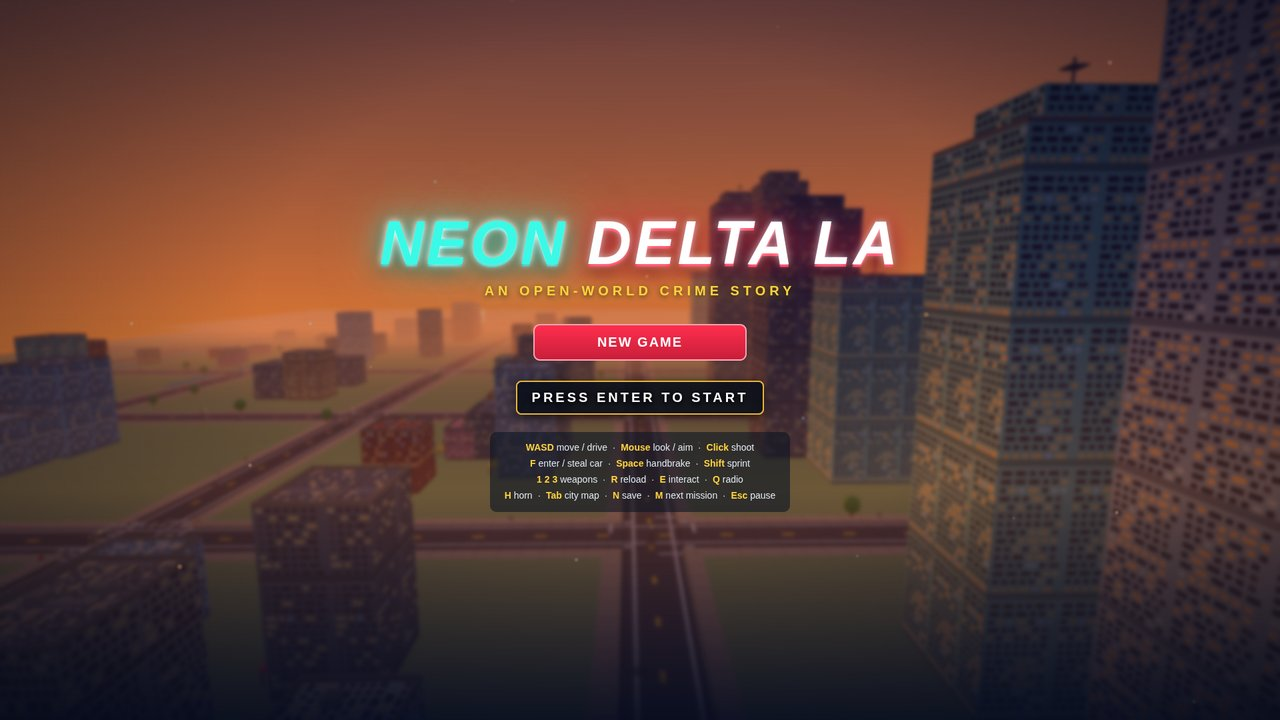
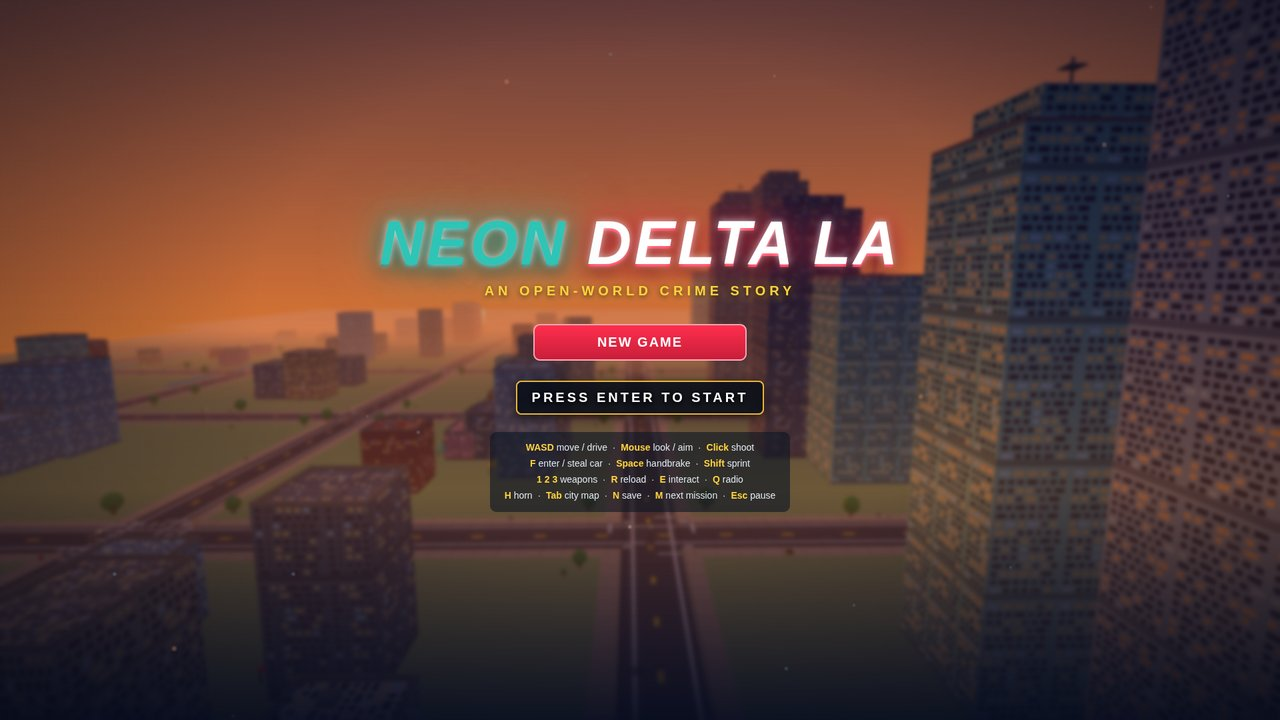
v10: prop density — street clutter, pier, port, shops, parked cars

diff --git a/game/src/world.js b/game/src/world.js
@@ -214,14 +214,45 @@ export function buildWorld(scene) {
   // Civic Center (gray + tower) beside the freeway.
   addBuilding(560, -480, 52, 24, 38, 'gray');
   addBuilding(560, -520, 18, 62, 18, 'gray', { antenna: true });
+  // v10: water towers on three landmark roofs (the towers already carry
+  // antennas) — hospital slab, city-hall base, civic-center base.
+  plainItems.push(cylItem(2.2, 2.2, 4, 220, 26 + 2.4, -490, 0xa8875a, 10));
+  plainItems.push({ geo: new THREE.ConeGeometry(2.4, 2, 10), matrix: new THREE.Matrix4().makeTranslation(220, 26 + 5.4, -490), color: 0x8f6f42 });
+  for (const [lx, lz] of [[218.5, -491.5], [221.5, -491.5], [218.5, -488.5], [221.5, -488.5]]) {
+    plainItems.push(cylItem(0.18, 0.18, 2.4, lx, 26 + 1.2, lz, 0x555555, 6));
+  }
+  plainItems.push(cylItem(2.2, 2.2, 4, -155, 18 + 2.4, -490, 0xa8875a, 10));
+  plainItems.push({ geo: new THREE.ConeGeometry(2.4, 2, 10), matrix: new THREE.Matrix4().makeTranslation(-155, 18 + 5.4, -490), color: 0x8f6f42 });
+  for (const [lx, lz] of [[-156.5, -491.5], [-153.5, -491.5], [-156.5, -488.5], [-153.5, -488.5]]) {
+    plainItems.push(cylItem(0.18, 0.18, 2.4, lx, 18 + 1.2, lz, 0x555555, 6));
+  }
+  plainItems.push(cylItem(2.2, 2.2, 4, 580, 24 + 2.4, -470, 0xa8875a, 10));
+  plainItems.push({ geo: new THREE.ConeGeometry(2.4, 2, 10), matrix: new THREE.Matrix4().makeTranslation(580, 24 + 5.4, -470), color: 0x8f6f42 });
+  for (const [lx, lz] of [[578.5, -471.5], [581.5, -471.5], [578.5, -468.5], [581.5, -468.5]]) {
+    plainItems.push(cylItem(0.18, 0.18, 2.4, lx, 24 + 1.2, lz, 0x555555, 6));
+  }
   // Shophouses: bright colors, ground-floor stores with awnings + signs.
   const shopColors = ['pink', 'teal', 'tan', 'blue', 'white', 'pink'];
   const shopNames = ['CORAL TACOS', 'NEON DONUTS', 'PIER GIFTS', 'SUNSET CAFE', 'VINYL & CO', 'TIDE BOOKS'];
   const shopSigns = [];
   shopColors.forEach((m, i) => {
     const x = -80 + i * 34;
-    addBuilding(x, 100, 26, range(rng, 12, 18), 16, m, { canopy: true, canopyColor: pick(rng, [0xff2e4d, 0xffc53d, 0x2ec4b6]) });
+    const cc = pick(rng, [0xff2e4d, 0xffc53d, 0x2ec4b6]);
+    addBuilding(x, 100, 26, range(rng, 12, 18), 16, m, { canopy: true, canopyColor: cc });
     shopSigns.push({ x, z: 100, text: shopNames[i] });
+    // v10 shopfront detail: flower window box + striped awning valance +
+    // a display shelf with colorful goods on the street face.
+    plainItems.push(boxItem(2.2, 0.4, 0.5, x, 2.6, 108.5, 0x8a6a42));
+    for (let f = 0; f < 3; f++) {
+      plainItems.push({ geo: new THREE.SphereGeometry(0.25, 8, 6), matrix: new THREE.Matrix4().makeTranslation(x - 0.7 + f * 0.7, 2.95, 108.5), color: [0xff2e4d, 0xffc53d, 0x2ec4b6][f] });
+    }
+    for (let s = 0; s < 5; s++) {
+      plainItems.push(boxItem(1.1, 0.4, 0.2, x - 2.2 + s * 1.1, 3.9, 108.2, s % 2 ? 0xf4f4f0 : cc));
+    }
+    plainItems.push(boxItem(4.5, 0.25, 0.8, x, 3.0, 108.6, 0x6a4a2a));
+    for (let gIdx = 0; gIdx < 3; gIdx++) {
+      plainItems.push(boxItem(0.9, 0.7, 0.7, x - 1.5 + gIdx * 1.5, 3.45, 108.6, [0xff2e4d, 0xffc53d, 0x2ec4b6][(i + gIdx) % 3]));
+    }
   });
   // Curved-glass corner towers (Downtown landmarks).
   const curved = [];
@@ -310,10 +341,13 @@ export function buildWorld(scene) {
       palmFronds.push(boxItem(5.5, 0.25, 1.6, x + Math.cos(a) * 2.4, h + 0.4, z + Math.sin(a) * 2.4, 0x2f8f4e, a, 0, 0.5));
     }
   };
-  // beachfront drive palms + pier palms + boulevard palms
+  // beachfront drive palms + pier palms + boulevard palms. The boulevard
+  // palm at x=-208 stood right in front of the VISIT CORAL PIER billboard
+  // at (-200,-200) and hid its left half from the south, so that one palm
+  // grows 32u west instead (same rng draw order, layout unchanged).
   for (let z = -380; z <= 500; z += 44) addPalm(-640, z, range(rng, 0.9, 1.2));
   for (const z of [272, 328]) { addPalm(-680, z, 1); addPalm(-760, z, 1); } // off the center line: nothing blocks the wheel
-  for (let x = -560; x <= 560; x += 88) addPalm(x, -188, range(rng, 0.9, 1.15));
+  for (let x = -560; x <= 560; x += 88) addPalm(x === -208 ? -240 : x, -188, range(rng, 0.9, 1.15));
   for (let i = 0; i < 40; i++) {
     const x = range(rng, -640, 640), z = range(rng, -640, 640);
     if (Math.abs(x % 200) < 30 || Math.abs(z % 200) < 30) continue;
@@ -414,8 +448,8 @@ export function buildWorld(scene) {
   // pier shops / stalls: two-tone body, striped canopy, counter with goods,
   // and a big name sign on the deck-facing side (the old sign sat on the
   // back face, hidden behind the stall, so stalls read as plain color blocks).
-  const stallNames = ['RING TOSS', 'CORAL DOGS', 'POPCORN', 'CANDY', 'BALLOONS', 'FISHING', 'ARCADE', 'LEMONADE'];
-  const stallColors = [0xff2e4d, 0x2ec4b6, 0xffc53d, 0xff7e5f, 0x7d3c98, 0x2471a3, 0x229954, 0xd4ac0d];
+  const stallNames = ['RING TOSS', 'CORAL DOGS', 'POPCORN', 'CANDY', 'BALLOONS', 'FISHING', 'ARCADE', 'LEMONADE', 'SNO-CONES', 'CORAL POP'];
+  const stallColors = [0xff2e4d, 0x2ec4b6, 0xffc53d, 0xff7e5f, 0x7d3c98, 0x2471a3, 0x229954, 0xd4ac0d, 0x2ec4b6, 0xff7e5f];
   const goodsColors = [0xff2e4d, 0xffc53d, 0x2ec4b6, 0x7d3c98, 0xff7e5f, 0xf4f4f0];
   const stallItems = [];
   stallNames.forEach((name, i) => {
@@ -536,6 +570,54 @@ export function buildWorld(scene) {
   carnivalItems.push(cylItem(0.45, 0.45, 0.25, -730.8, 2.55, 291.2, 0x141414, 10));
   carnivalItems.push(cylItem(0.45, 0.45, 0.25, -729.2, 2.55, 291.2, 0x141414, 10));
   scene.add(new THREE.Mesh(mergeItems(carnivalItems), plain));
+  // v10: more pier life — two extra stalls (SNO-CONES, CORAL POP), three
+  // center benches + four more bins, a second balloon bunch by the wheel,
+  // eight flag poles along the deck edges, two more bunting strings, and
+  // the cotton-candy cart now reads as cotton candy (serving cone under
+  // the pink fluff + a COTTON CANDY sign on the camera-facing side).
+  const pierExtraItems = [];
+  for (const bx of [-766, -736, -706]) {
+    pierExtraItems.push(boxItem(3.4, 0.2, 0.9, bx, 3.05, 300, 0x8a6a42));
+    pierExtraItems.push(boxItem(3.4, 1.1, 0.15, bx, 3.6, 299.5, 0x8a6a42));
+    pierExtraItems.push(boxItem(0.2, 0.5, 0.7, bx - 1.4, 2.75, 300, 0x333333));
+    pierExtraItems.push(boxItem(0.2, 0.5, 0.7, bx + 1.4, 2.75, 300, 0x333333));
+  }
+  for (const [tx, tz] of [[-780, 334], [-730, 334], [-756, 266], [-690, 334]]) {
+    pierExtraItems.push(cylItem(0.8, 0.75, 1.5, tx, 3.25, tz, 0x2f7a3a, 10));
+    pierExtraItems.push(cylItem(0.9, 0.9, 0.18, tx, 4.05, tz, 0x444444, 10));
+  }
+  pierExtraItems.push(cylItem(0.12, 0.12, 4.5, -760, 4.7, 316, 0x333333, 6));
+  for (let i = 0; i < 6; i++) {
+    const a = (i / 6) * Math.PI * 2;
+    pierExtraItems.push({ geo: new THREE.SphereGeometry(0.85, 10, 8), matrix: new THREE.Matrix4().makeTranslation(-760 + Math.cos(a) * 1.1, 7.4 + (i % 2) * 0.5, 316 + Math.sin(a) * 1.1), color: [0xff2e4d, 0xffc53d, 0x2ec4b6, 0x7d3c98, 0xff7e5f, 0x2471a3][i] });
+  }
+  const flagColors = [0xff2e4d, 0xffc53d, 0x2ec4b6, 0x7d3c98];
+  for (let i = 0; i < 8; i++) {
+    const fx = [-780, -752, -724, -696, -668, -766, -738, -710][i];
+    const fz = i < 5 ? 262 : 338;
+    pierExtraItems.push(cylItem(0.15, 0.18, 4.5, fx, 4.75, fz, 0x333333, 6));
+    pierExtraItems.push(boxItem(1.2, 0.7, 0.1, fx + 0.6, 6.6, fz, flagColors[i % 4]));
+  }
+  pierExtraItems.push({ geo: new THREE.ConeGeometry(0.7, 1.6, 8), matrix: new THREE.Matrix4().makeRotationX(Math.PI).setPosition(-730, 4.0, 290), color: 0xd4ac0d });
+  pierExtraItems.push({ geo: new THREE.SphereGeometry(0.45, 8, 6), matrix: new THREE.Matrix4().makeTranslation(-730.6, 4.2, 289.2), color: 0xff7eb6 });
+  pierExtraItems.push({ geo: new THREE.SphereGeometry(0.45, 8, 6), matrix: new THREE.Matrix4().makeTranslation(-729.4, 4.2, 290.8), color: 0xff9ec7 });
+  scene.add(new THREE.Mesh(mergeItems(pierExtraItems), plain));
+  const candySign = new THREE.Mesh(new THREE.PlaneGeometry(3, 1.2), new THREE.MeshLambertMaterial({ map: signTexture(['COTTON CANDY'], { bg: '#7d3c98', fg: '#ffffff' }) }));
+  candySign.position.set(-728.6, 3.4, 290);
+  candySign.rotation.y = Math.PI / 2;
+  scene.add(candySign);
+  const bunt2Items = [];
+  for (const bx of [-688, -760]) {
+    for (let i = 0; i < 12; i++) {
+      const z = 262 + i * 6.8;
+      const sag = Math.sin((i / 11) * Math.PI) * 1.2;
+      const tri = new THREE.BufferGeometry();
+      tri.setAttribute('position', new THREE.Float32BufferAttribute([bx, 8.4 - sag, z, bx + 1.6, 8.4 - sag, z, bx + 0.8, 7.2 - sag, z], 3));
+      tri.computeVertexNormals();
+      bunt2Items.push({ geo: tri, matrix: new THREE.Matrix4(), color: buntColors[i % 5] });
+    }
+  }
+  scene.add(new THREE.Mesh(mergeItems(bunt2Items), plain));
   // soft light particles drifting around the ferris wheel
   const glowCount = 140;
   const glowBase = new Float32Array(glowCount * 3);
@@ -704,6 +786,63 @@ export function buildWorld(scene) {
     yardItems.push(boxItem(2.0, 2.0, 2.0, cx + 0.4, 3.2, cz - 0.3, 0x8f6f42));
     addCollider(cx - 1.2, cz - 1.2, cx + 1.6, cz + 1.2, 4.5);
   }
+  // v10: two more cargo trailers, two forklifts, four more container
+  // stacks on the painted slots, four more pallet stacks, three more
+  // barrel clusters, a second cone line on the east dock road, and four
+  // more crates — the yard strips read dense from the dock roads.
+  addTrailer(700, 500, 0, 0xe67e22);
+  addTrailer(500, 700, Math.PI / 2, 0xc0392b);
+  const addForklift = (x, z, ry, color) => {
+    const m = new THREE.Matrix4().makeRotationY(ry);
+    const put = (w, h, d, ox, oy, oz, c) => {
+      const mm = m.clone();
+      mm.setPosition(x + ox * Math.cos(ry) - oz * Math.sin(ry), oy, z + ox * Math.sin(ry) + oz * Math.cos(ry));
+      yardItems.push({ geo: new THREE.BoxGeometry(w, h, d), matrix: mm, color: c });
+    };
+    put(2.2, 1.2, 1.4, 0, 0.9, 0, color); // body
+    put(2.0, 0.15, 1.3, 0, 1.6, 0, 0x333333); // overhead guard roof
+    put(0.15, 1.4, 0.15, -0.8, 1.0, 0.6, 0x333333);
+    put(0.15, 1.4, 0.15, -0.8, 1.0, -0.6, 0x333333);
+    put(0.15, 1.4, 0.15, 0.8, 1.0, 0.6, 0x333333);
+    put(0.15, 1.4, 0.15, 0.8, 1.0, -0.6, 0x333333);
+    put(0.25, 2.6, 0.25, 1.2, 1.5, 0.55, 0x555555); // mast uprights
+    put(0.25, 2.6, 0.25, 1.2, 1.5, -0.55, 0x555555);
+    put(0.25, 0.3, 1.35, 1.2, 2.7, 0, 0x555555); // mast crossbar
+    put(1.5, 0.12, 0.25, 2.0, 0.3, 0.4, 0x888888); // forks
+    put(1.5, 0.12, 0.25, 2.0, 0.3, -0.4, 0x888888);
+    put(0.5, 0.5, 0.3, 0.6, 0.4, 0.65, 0x141414); // wheels
+    put(0.5, 0.5, 0.3, 0.6, 0.4, -0.65, 0x141414);
+    put(0.5, 0.5, 0.3, -0.7, 0.4, 0.65, 0x141414);
+    put(0.5, 0.5, 0.3, -0.7, 0.4, -0.65, 0x141414);
+    const hx = ry === 0 ? 0 : 1;
+    addCollider(x - (hx ? 1.0 : 2.8), z - (hx ? 2.8 : 1.0), x + (hx ? 1.0 : 2.8), z + (hx ? 2.8 : 1.0), 3);
+  };
+  addForklift(470, 470, 0, 0xffc53d);
+  addForklift(600, 620, Math.PI / 2, 0x2ec4b6);
+  for (const [cx, cz, n] of [[690, 460, 2], [690, 540, 3], [460, 690, 2], [540, 690, 3]]) yardStack(cx, cz, n);
+  for (const [px, pz] of [[660, 420], [660, 580], [420, 660], [580, 660]]) {
+    const h = rangeInt(rng, 1, 2);
+    for (let s = 0; s < h; s++) {
+      yardItems.push(boxItem(2.4, 1.0, 2.4, px, 0.5 + s * 1.05, pz, 0xb08a5a));
+      yardItems.push(boxItem(2.2, 0.2, 2.2, px, 1.05 + s * 1.05, pz, 0x8a6a42));
+    }
+    portStats.pallets += h;
+  }
+  for (const [bx, bz] of [[660, 470], [470, 660], [670, 620]]) {
+    for (let i = 0; i < 3; i++) {
+      const ox = (i % 2) * 2.2, oz = Math.floor(i / 2) * 2.2;
+      yardItems.push(cylItem(0.9, 0.9, 2.2, bx + ox, 1.1, bz + oz, barrelColors[i % 3], 10));
+    }
+    addCollider(bx - 1, bz - 1, bx + 3.2, bz + 3.2, 2.5);
+  }
+  for (const cz of [440, 470, 500, 530, 560]) {
+    yardItems.push({ geo: new THREE.ConeGeometry(0.7, 1.6, 8), matrix: new THREE.Matrix4().makeTranslation(624, 0.8, cz), color: 0xe67e22 });
+  }
+  for (const [cx, cz] of [[690, 470], [690, 570], [470, 690], [570, 690]]) {
+    yardItems.push(boxItem(2.2, 2.2, 2.2, cx, 1.1, cz, 0xa8875a));
+    yardItems.push(boxItem(2.0, 2.0, 2.0, cx + 0.4, 3.2, cz - 0.3, 0x8f6f42));
+    addCollider(cx - 1.2, cz - 1.2, cx + 1.6, cz + 1.2, 4.5);
+  }
   scene.add(new THREE.Mesh(mergeItems(yardItems), plain));
 
   // ---- Midtown street props: fire hydrants at intersections + crates by the shops
@@ -717,9 +856,9 @@ export function buildWorld(scene) {
     streetItems.push(boxItem(1.6, 1.6, 1.6, cx + 0.3, 2.8, cz, 0x8f6f42));
     addCollider(cx - 1.1, cz - 1.1, cx + 1.4, cz + 1.1, 3.8);
   }
-  // bus shelters (bench + roof + posts) at four avenue stops
+  // bus shelters (bench + roof + posts) at six avenue stops
   const busSignDefs = [];
-  for (const [bx, bz] of [[-186, 200], [214, -200], [14, 400], [-414, -200]]) {
+  for (const [bx, bz] of [[-186, 200], [214, -200], [14, 400], [-414, -200], [-186, -400], [214, 200]]) {
     streetItems.push(boxItem(4.5, 0.25, 1.1, bx, 0.65, bz, 0x8a6a42));
     streetItems.push(boxItem(4.5, 1.0, 0.18, bx, 1.2, bz - 0.5, 0x8a6a42));
     streetItems.push(boxItem(5.2, 0.25, 2.2, bx, 2.9, bz, 0x2ec4b6));
@@ -748,6 +887,109 @@ export function buildWorld(scene) {
     }
   }
   scene.add(new THREE.Mesh(mergeItems(streetItems), plain));
+  // ---- v10: street clutter — mailboxes, newspaper boxes, bike racks
+  // (with parked bikes), planters, street bins, dumpsters, street-name
+  // signs, barriers, extra benches / hydrants / cones, and infill trees
+  // in the central blocks, so no sidewalk or lawn reads empty. Small
+  // props sit at mid-block z (-500..500, never on intersection corners)
+  // where no bench, hydrant, shelter or crate stands; benches, hydrants
+  // and cones take free intersection corners. All merged (one draw call);
+  // colliders only for chunky pieces. A separate vrng stream keeps every
+  // earlier layout draw untouched.
+  const vrng = mulberry32(20261120);
+  const clutterItems = [];
+  for (const av of WORLD.AVENUES) {
+    // mailboxes (blue, avenue-15) + newspaper boxes (avenue+15)
+    for (const z of [-300, 100]) {
+      clutterItems.push(boxItem(0.15, 0.5, 0.15, av - 15, 0.25, z, 0x333333));
+      clutterItems.push(boxItem(1.0, 1.0, 0.7, av - 15, 1.0, z, 0x2471a3));
+      clutterItems.push(boxItem(1.05, 0.2, 0.75, av - 15, 1.55, z, 0x1a5a8a));
+    }
+    for (const z of [-100, 300]) {
+      clutterItems.push(boxItem(0.15, 0.5, 0.15, av + 15, 0.25, z, 0x333333));
+      clutterItems.push(boxItem(0.8, 0.7, 0.5, av + 15, 0.85, z, [0xc0392b, 0xffc53d, 0x2ec4b6][Math.floor(vrng() * 3)]));
+    }
+    // street bins (green) at three more mid-block spots
+    for (const z of [500, -500, 300]) {
+      clutterItems.push(cylItem(0.7, 0.65, 1.3, av - 15, 0.65, z, 0x2f7a3a, 10));
+      clutterItems.push(cylItem(0.75, 0.75, 0.15, av - 15, 1.35, z, 0x444444, 10));
+    }
+    // wooden planters with a bush
+    for (const z of [-500, 500]) {
+      clutterItems.push(boxItem(1.6, 0.7, 1.6, av + 15, 0.35, z, 0x8a6a42));
+      clutterItems.push({ geo: new THREE.SphereGeometry(0.9, 8, 6), matrix: new THREE.Matrix4().makeTranslation(av + 15, 1.1, z), color: 0x4a8a3a });
+      addCollider(av + 15 - 0.8, z - 0.8, av + 15 + 0.8, z + 0.8, 1.6);
+    }
+    // bike rack + one parked bike leaning on it
+    const rz = -100;
+    clutterItems.push(boxItem(0.12, 0.9, 0.12, av - 15 - 0.7, 0.45, rz, 0x888888));
+    clutterItems.push(boxItem(0.12, 0.9, 0.12, av - 15 + 0.7, 0.45, rz, 0x888888));
+    clutterItems.push(boxItem(1.5, 0.12, 0.12, av - 15, 0.85, rz, 0x888888));
+    for (const wx of [av - 15 - 0.55, av - 15 + 0.55]) {
+      clutterItems.push({ geo: new THREE.CylinderGeometry(0.35, 0.35, 0.08, 10), matrix: new THREE.Matrix4().makeRotationX(Math.PI / 2).setPosition(wx, 0.35, rz + 0.3), color: 0x141414 });
+    }
+    clutterItems.push(boxItem(1.3, 0.1, 0.1, av - 15, 0.7, rz + 0.3, 0xdddddd));
+    addCollider(av - 15 - 0.9, rz - 0.5, av - 15 + 0.9, rz + 0.5, 1);
+  }
+  // planters at the corners of the central blocks (shot 4's empty mid-city)
+  for (const [px, pz] of [[30, 30], [170, 170], [30, 270], [170, 330], [230, 30], [370, 170], [-170, 30], [-30, 170]]) {
+    clutterItems.push(boxItem(1.6, 0.7, 1.6, px, 0.35, pz, 0x8a6a42));
+    clutterItems.push({ geo: new THREE.SphereGeometry(0.9, 8, 6), matrix: new THREE.Matrix4().makeTranslation(px, 1.1, pz), color: 0x4a8a3a });
+    addCollider(px - 0.8, pz - 0.8, px + 0.8, pz + 0.8, 1.6);
+  }
+  // dumpsters behind the shophouses and near the landmarks
+  for (const [dx, dz] of [[-60, 120], [40, 120], [200, -440], [-140, -440], [500, -440]]) {
+    clutterItems.push(boxItem(2.6, 1.6, 1.4, dx, 0.8, dz, 0x2f5a3a));
+    clutterItems.push(boxItem(2.7, 0.15, 1.5, dx, 1.65, dz, 0x444444));
+    addCollider(dx - 1.3, dz - 0.7, dx + 1.3, dz + 0.7, 1.8);
+  }
+  // street-name signs at eight intersections (posts merged, faces added below)
+  const streetSignDefs = [];
+  for (const [sx, sz, name] of [[-186, -186, 'CORAL AVE'], [14, 214, 'DELTA BLVD'], [214, -186, 'SUNSET ROW'], [-386, 414, 'PIER ST'], [414, 14, 'NEON AVE'], [14, -386, 'HARBOR RD'], [-186, -386, 'VENICE WAY'], [214, 414, 'MARINA DR']]) {
+    clutterItems.push(boxItem(0.15, 3.2, 0.15, sx, 1.6, sz, 0x333333));
+    streetSignDefs.push({ x: sx, y: 3.4, z: sz, text: name });
+  }
+  // orange/white striped barriers on sidewalk corners
+  for (const [bx, bz] of [[100, -186], [-100, 186], [300, -186], [-300, 186], [500, 186], [-500, -186], [100, 386], [-100, -386]]) {
+    clutterItems.push(boxItem(0.2, 0.9, 0.2, bx - 1.7, 0.45, bz, 0x333333));
+    clutterItems.push(boxItem(0.2, 0.9, 0.2, bx + 1.7, 0.45, bz, 0x333333));
+    for (let s = 0; s < 4; s++) {
+      clutterItems.push(boxItem(0.9, 0.5, 0.15, bx - 1.35 + s * 0.9, 0.9, bz, s % 2 ? 0xf4f4f0 : 0xe67e22));
+    }
+  }
+  // ten more benches on free intersection corners
+  for (const [bx, bz] of [[-186, 400], [14, -200], [214, -400], [414, 200], [-414, -400], [614, -200], [-586, 400], [14, 0], [414, -400], [-214, -200]]) {
+    clutterItems.push(boxItem(3.4, 0.2, 0.9, bx, 0.55, bz, 0x8a6a42));
+    clutterItems.push(boxItem(3.4, 1.1, 0.15, bx, 1.1, bz - 0.45, 0x8a6a42));
+    clutterItems.push(boxItem(0.2, 0.5, 0.7, bx - 1.4, 0.25, bz, 0x333333));
+    clutterItems.push(boxItem(0.2, 0.5, 0.7, bx + 1.4, 0.25, bz, 0x333333));
+  }
+  // eight more hydrants on free corners
+  for (const [hx, hz] of [[216, -216], [-184, 416], [16, 16], [416, -216], [-216, 216], [16, -416], [616, 216], [-584, -216]]) {
+    clutterItems.push(cylItem(0.5, 0.55, 1.2, hx, 0.6, hz, 0xd4ac0d, 10));
+    clutterItems.push({ geo: new THREE.SphereGeometry(0.35, 8, 6), matrix: new THREE.Matrix4().makeTranslation(hx, 1.3, hz), color: 0xd4ac0d });
+  }
+  // twelve more cones on free sidewalk corners
+  for (const [cx, cz] of [[184, -184], [-184, 384], [384, 184], [-384, -184], [584, 384], [-584, 384]]) {
+    clutterItems.push({ geo: new THREE.ConeGeometry(0.7, 1.6, 8), matrix: new THREE.Matrix4().makeTranslation(cx, 0.8, cz), color: 0xe67e22 });
+    clutterItems.push({ geo: new THREE.ConeGeometry(0.7, 1.6, 8), matrix: new THREE.Matrix4().makeTranslation(cx + 3, 0.8, cz + 2), color: 0xe67e22 });
+  }
+  // twenty-four infill trees at the corners of the six central blocks
+  for (const [bcx, bcz] of [[100, 100], [100, 300], [300, 100], [-100, 100], [100, -100], [-100, -100]]) {
+    for (const [ox, oz] of [[-75, -75], [75, -75], [-75, 75], [75, 75]]) {
+      const tx = bcx + ox, tz = bcz + oz;
+      const ts = 0.8 + vrng() * 0.5;
+      clutterItems.push(cylItem(0.5 * ts, 0.7 * ts, 3 * ts, tx, 1.5 * ts, tz, 0x6a4a2a, 8));
+      clutterItems.push({ geo: new THREE.SphereGeometry(3.2 * ts, 8, 6), matrix: new THREE.Matrix4().makeTranslation(tx, 4.5 * ts, tz), color: 0x4a8a3a });
+    }
+  }
+  scene.add(new THREE.Mesh(mergeItems(clutterItems), plain));
+  // street-name sign faces (created after the merge like the other signs)
+  for (const def of streetSignDefs) {
+    const s = new THREE.Mesh(new THREE.PlaneGeometry(4, 1.2), new THREE.MeshLambertMaterial({ map: signTexture([def.text], { bg: '#2ec4b6', fg: '#ffffff' }) }));
+    s.position.set(def.x, def.y, def.z);
+    scene.add(s);
+  }
   // billboards (original art + text) on tall posts at three junctions + BUS signs
   const billboardDefs = [
     { x: -200, z: -200, lines: ['VISIT CORAL PIER', 'GAMES • RIDES • CAFES'], bg: '#c0392b' },
@@ -835,6 +1077,21 @@ export function buildWorld(scene) {
     { x: 600, z: -600, heading: Math.PI / 2, kind: 'suv', color: 0xdddddd },
     { x: 200, z: -612, heading: 0, kind: 'sedan', color: 0x2ec4b6 },
     { x: -388, z: 612, heading: Math.PI, kind: 'bike', color: 0xff2e4d },
+    // v10: twelve more parked cars/trucks/bikes along the avenues, so the
+    // streets read lived-in instead of empty (all clear of keep-clear
+    // points, mission framing, billboard posts and bus shelters).
+    { x: 416, z: 50, heading: Math.PI / 2, kind: 'sedan', color: 0x2ec4b6 },
+    { x: -216, z: 250, heading: 0, kind: 'pickup', color: 0xc0392b },
+    { x: 216, z: -50, heading: Math.PI, kind: 'sport', color: 0xffc53d },
+    { x: -16, z: 450, heading: Math.PI / 2, kind: 'sedan', color: 0xdddddd },
+    { x: 616, z: 250, heading: 0, kind: 'suv', color: 0x2471a3 },
+    { x: -616, z: -250, heading: Math.PI, kind: 'sedan', color: 0x7d3c98 },
+    { x: 16, z: -250, heading: Math.PI / 2, kind: 'bike', color: 0xff2e4d },
+    { x: 416, z: -250, heading: 0, kind: 'pickup', color: 0x229954 },
+    { x: -416, z: 150, heading: Math.PI, kind: 'sport', color: 0xd4ac0d },
+    { x: 216, z: 550, heading: Math.PI / 2, kind: 'sedan', color: 0xff7e5f },
+    { x: -216, z: -450, heading: 0, kind: 'suv', color: 0x2ec4b6 },
+    { x: 616, z: -150, heading: Math.PI, kind: 'bike', color: 0x2471a3 },
   ];
 
   // ---- per-frame animation ----
